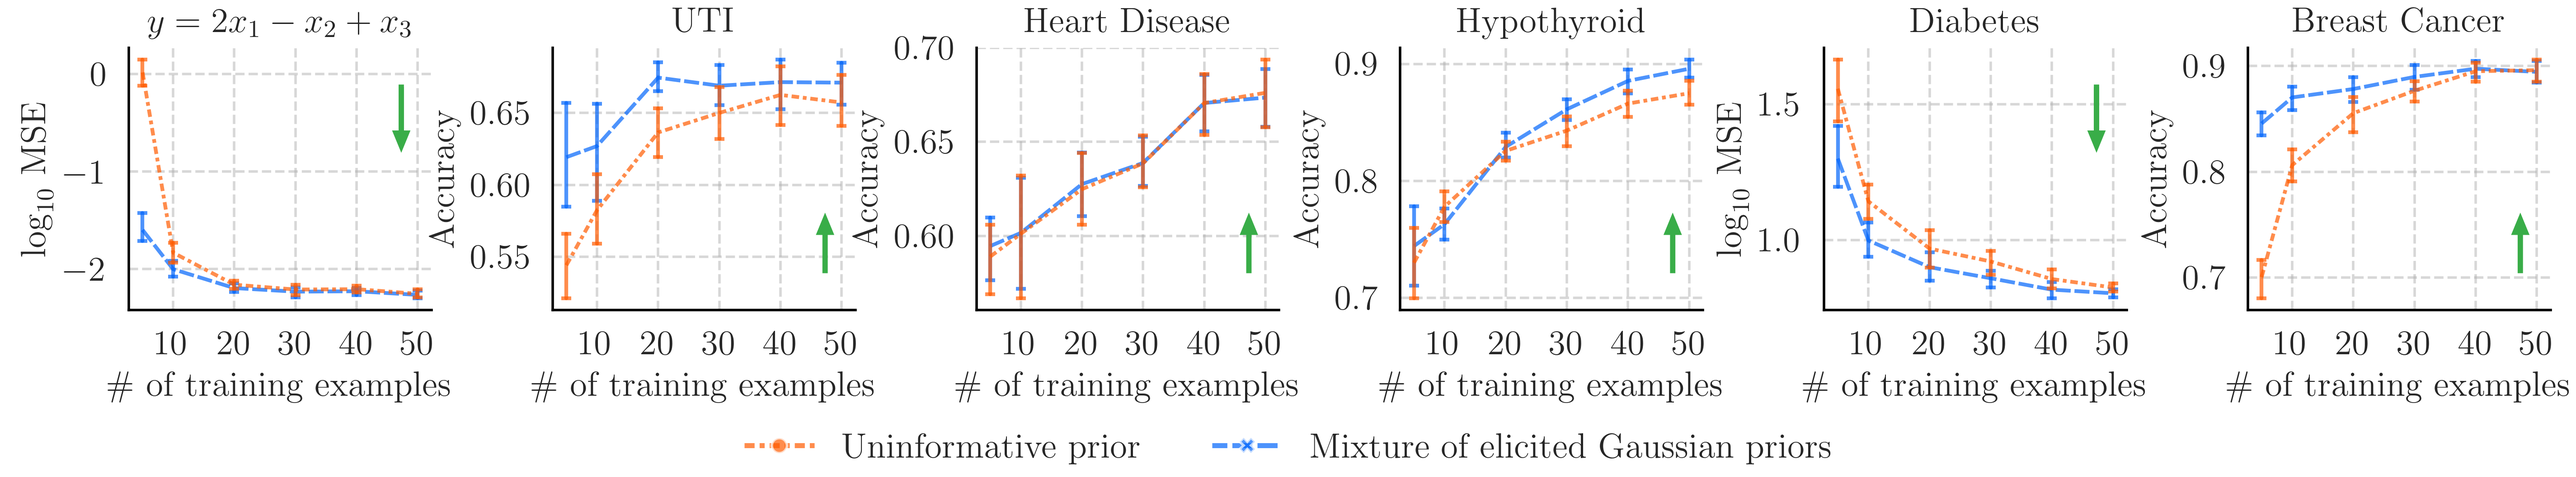
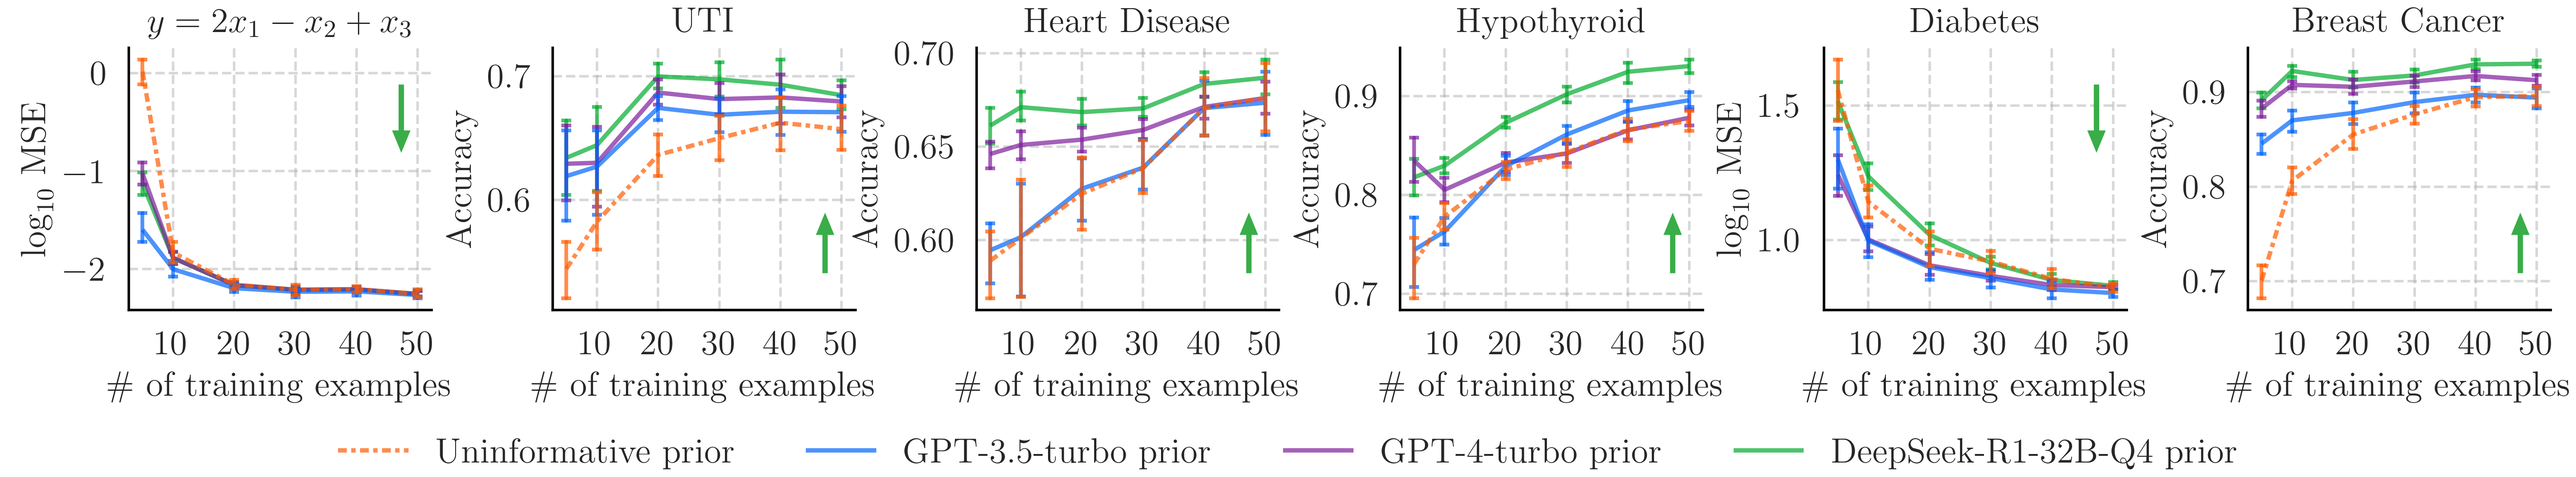
Update website

diff --git a/llm-elicited-priors.html b/llm-elicited-priors.html
@@ -208,27 +208,20 @@
           <h2 class="section-title">Abstract</h2>
           <div class="content section-text section-box">
             <p>
-              Large language models (LLMs), trained on diverse data effectively acquire a
-              breadth of information across various domains. However, their computational
-              complexity, cost, and lack of transparency hinder their direct application for
-              specialised tasks. In fields such as clinical research, acquiring expert
-              annotations or prior knowledge about predictive models is often costly and
-              time-consuming. This study proposes the use of LLMs to elicit expert prior
-              distributions for predictive models. This approach also provides an alternative
-              to in-context learning, where language models are tasked with making
-              predictions directly. In this work, we compare LLM-elicited and uninformative
-              priors, evaluate whether LLMs truthfully generate parameter distributions, and
-              propose a model selection strategy for in-context learning and prior
-              elicitation. Our findings show that LLM-elicited prior parameter distributions
-              significantly reduce predictive error compared to uninformative priors in
-              low-data settings. Applied to clinical problems, this translates to fewer
-              required biological samples, lowering cost and resources. Prior elicitation
-              also consistently outperforms and proves more reliable than in-context learning
-              at a lower cost, making it a preferred alternative in our setting. We
-              demonstrate the utility of this method across various use cases, including
-              clinical applications. For infection prediction, using LLM-elicited priors
-              reduced the number of required labels to achieve the same accuracy as an
-              uninformative prior by 55%, 200 days earlier in the study.
+              Large language models (LLMs) acquire a breadth of information across various domains. However, their
+              computational complexity, cost, and lack of transparency often hinder their direct application for
+              predictive tasks where privacy and interpretability are paramount. In fields such as healthcare, biology,
+              and finance, specialised and interpretable linear models still hold considerable value. In such domains,
+              labelled data may be scarce or expensive to obtain. Well-specified prior distributions over model
+              parameters can reduce the sample complexity of learning through Bayesian inference; however, eliciting
+              expert priors can be time-consuming. We therefore introduce AutoElicit to extract knowledge from LLMs and
+              construct priors for predictive models. We show these priors are informative and can be refined using
+              natural language. We perform a careful study contrasting AutoElicit with in-context learning and
+              demonstrate how to perform model selection between the two methods. We find that AutoElicit yields priors
+              that can substantially reduce error over uninformative priors, using fewer labels, and consistently
+              outperform in-context learning. We show that AutoElicit saves over 6 months of labelling effort when
+              building a new predictive model for urinary tract infections from sensor recordings of people living with
+              dementia.
             </p>
           </div>
         </div>
@@ -387,7 +380,7 @@
       <div><img class="figure" src="./llm-elicited-priors/static/images/elicitation_results_lineplot.png" />
         <h2 class="figure-caption has-text-centered">
           Line plot of the accuracy and MSE of the posterior predictive distribution on a test set, using the
-          LLM-elicited prior (from GPT-3.5-turbo) and the uninformative prior.
+          LLM-elicited priors and the uninformative prior.
         </h2>
       </div>
     </div>
@@ -402,17 +395,22 @@
         <div class="column is-four-fifths">
           <div class="content section-text section-box">
             <p>
-              In almost all cases the LLM-elicited prior outperforms the uninformative prior in the low-data regime.
+              In almost all cases, one of the LLM-elicited priors outperforms the uninformative prior, particularly when
+              data is sparse.
               This is particularly interesting for the UTI prediction task, where the data is private and will have
               never appeared in the LLM's training text.
             </p>
             <p>
-              However, for the Hypothyroid prediction task, the LLM-elicited prior performs similarly for the low-data
+              For the Hypothyroid prediction task, the GPT-3.5-turbo-elicited prior performs similarly for the low-data
               regime but allows
               the model to learn more from the data as the number of examples increases.
+              In this case, DeepSeek-R1-32B-Q4 produces considerably more accurate posteriors.
+            </p>
+            <p>
               In the case of Heart Disease
               prediction, GPT-3.5-turbo returned an uninformative prior for most of the task descriptions, indicating
-              its lack of knowledge of the domain. This suggests the use of human experts in communication with the
+              its lack of knowledge of the domain.
+              This suggests the use of human experts in communication with the
               LLM
               to help steer the language model towards producing more informative prior distributions when it
               has little prior knowledge.
@@ -482,7 +480,8 @@
       <div><img class="figure" style="width: 75%;"
           src="./llm-elicited-priors/static/images/elicitation_varied_descriptions_prior_parameter_distribution.png" />
         <h2 class="figure-caption has-text-centered">
-          The change in the prior parameter distribution as the language model is provided with more information about
+          The change in the GPT-3.5-turbo prior parameter distribution as the language model is provided with more
+          information about
           the task.
         </h2>
       </div>
@@ -553,7 +552,7 @@
           <div class="content section-text section-box">
             <p>
               We can also evaluate the prior elicitation capabilities of other language models. Here, we compare
-              open-source LLMs and some of the other available OpenAI models to GPT-3.5-turbo:
+              open-source LLMs and some of the other available OpenAI models to those presented above:
             </p>
           </div>
         </div>
@@ -594,9 +593,10 @@
         <div class="column is-four-fifths">
           <div class="content section-text section-box">
             <p>
-              We mostly find that the open-source models provide priors with inconsistent posterior performance.
-              However, the GPT-4-turbo elicited priors achieve posterior accuracy and MSE that is often better than
-              GPT-3.5-turbo, but at a significantly higher cost.
+              We mostly find that the open-source models provide priors with inconsistent posterior performance. The
+              exception is
+              DeepSeek-R1-32B-Q4, which suggests that recent developments in reasoning methods are helpful for
+              eliciting priors.
             </p>
           </div>
         </div>
@@ -1046,8 +1046,8 @@
       <section class="section" id="BibTeX">
         <div class="container is-max-desktop content">
           <h2 class="section-title">BibTeX</h2>
-          <pre><code>@article{capstick2024using,
-  title={Using Large Language Models for Expert Prior Elicitation in Predictive Modelling},
+          <pre><code>@article{capstick2024autoelicit,
+  title={AutoElicit: Using Large Language Models for Expert Prior Elicitation in Predictive Modelling},
   author={Capstick, Alexander and Krishnan, Rahul G and Barnaghi, Payam},
   journal={arXiv preprint arXiv:2411.17284},
   year={2024}
